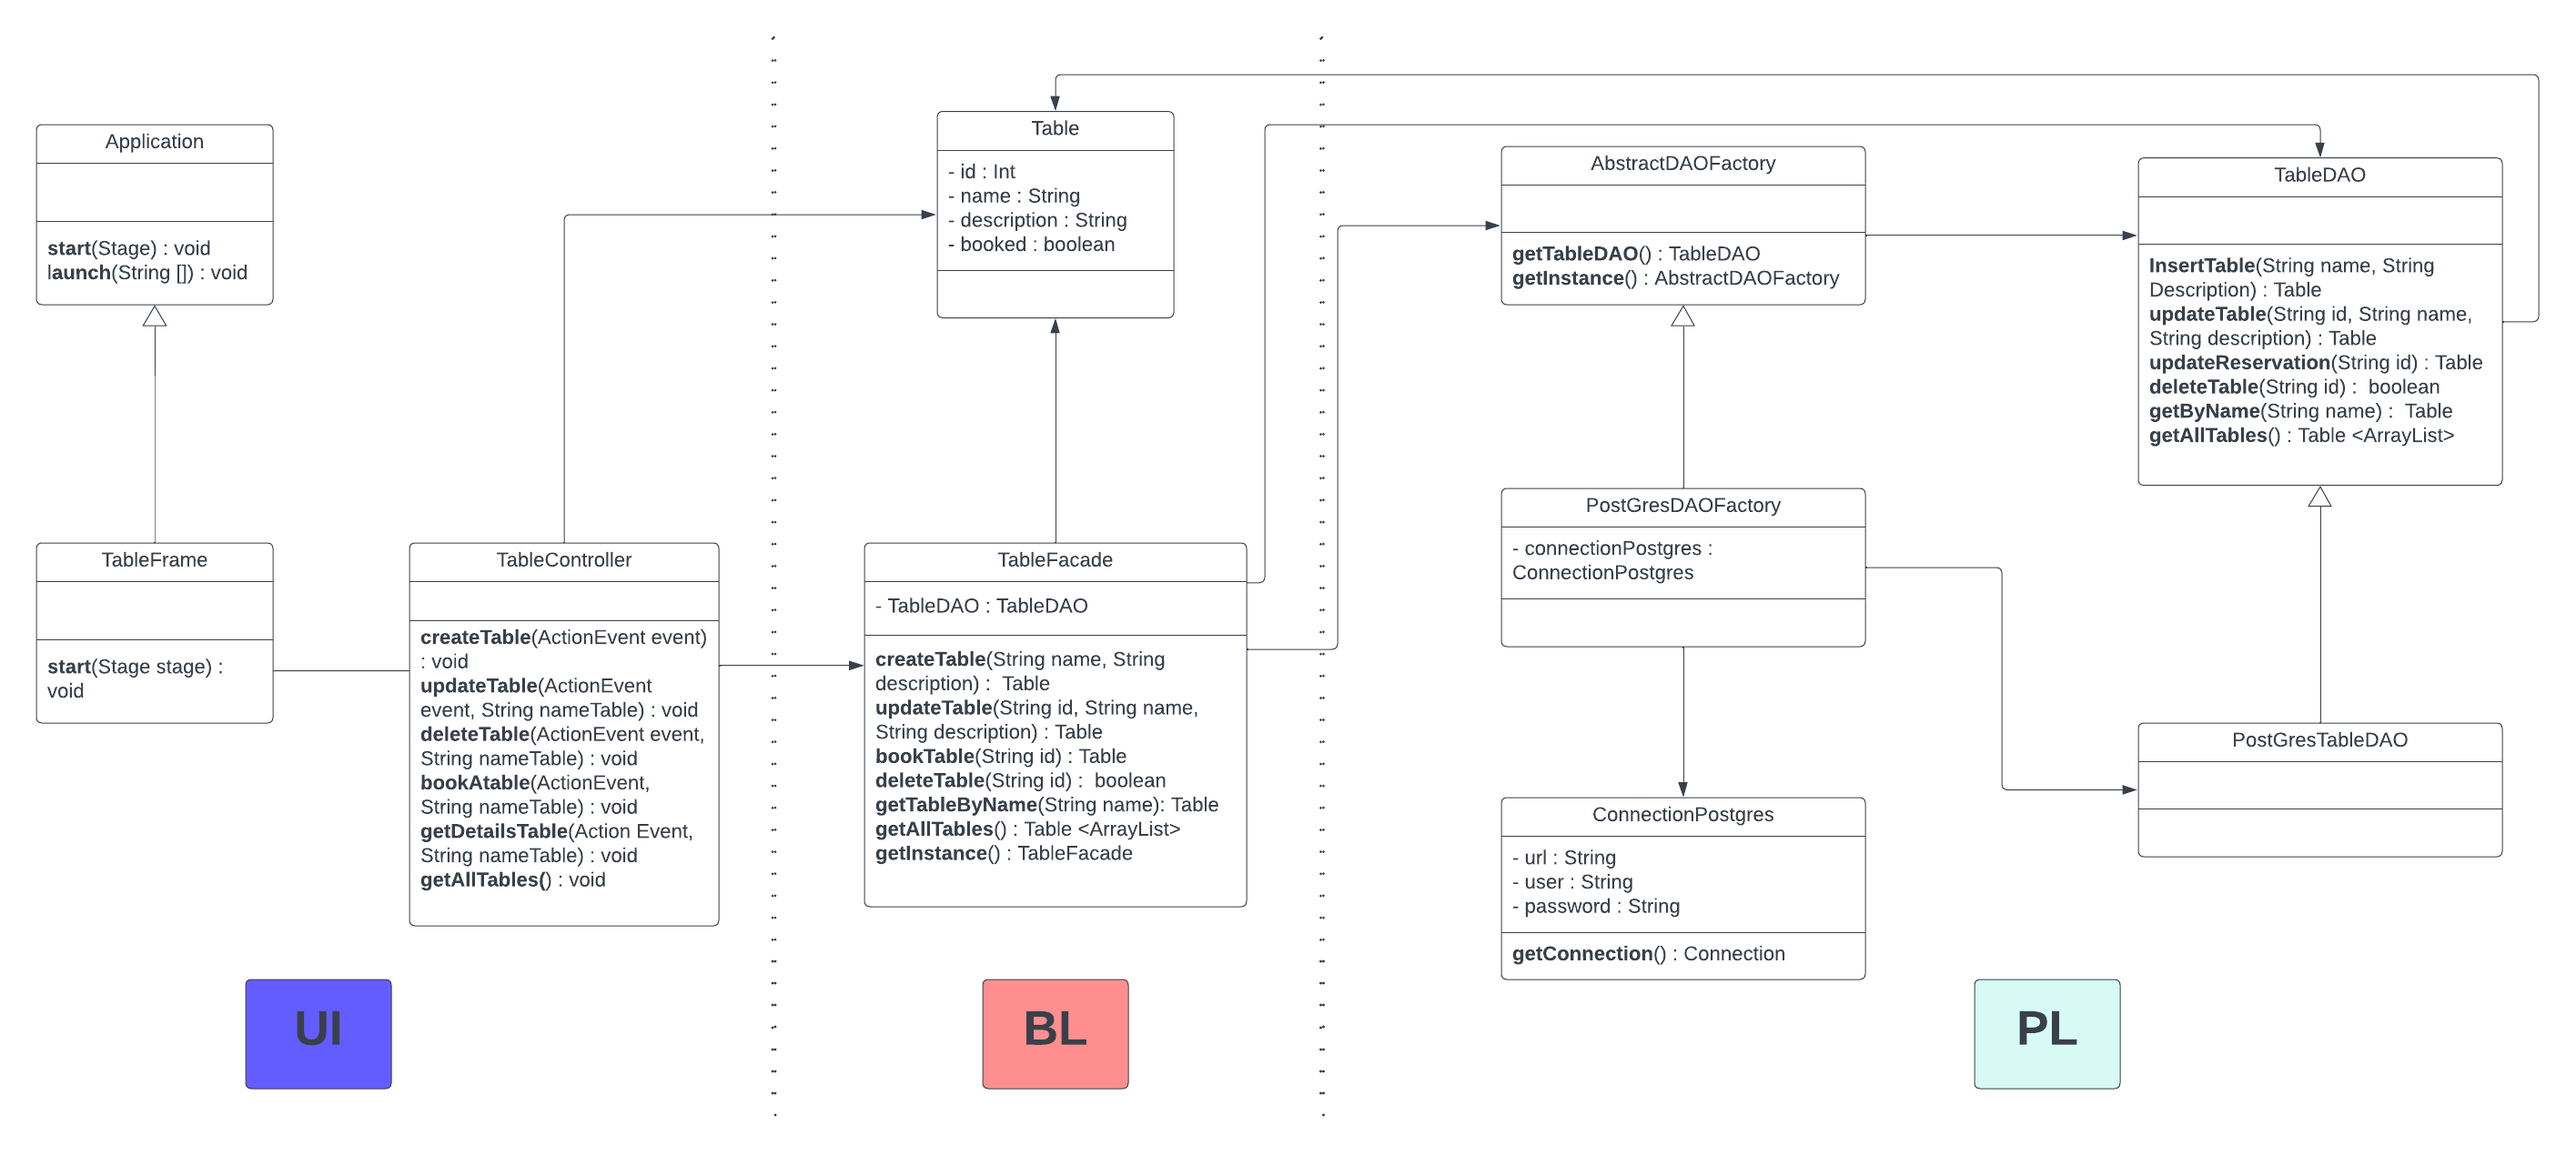
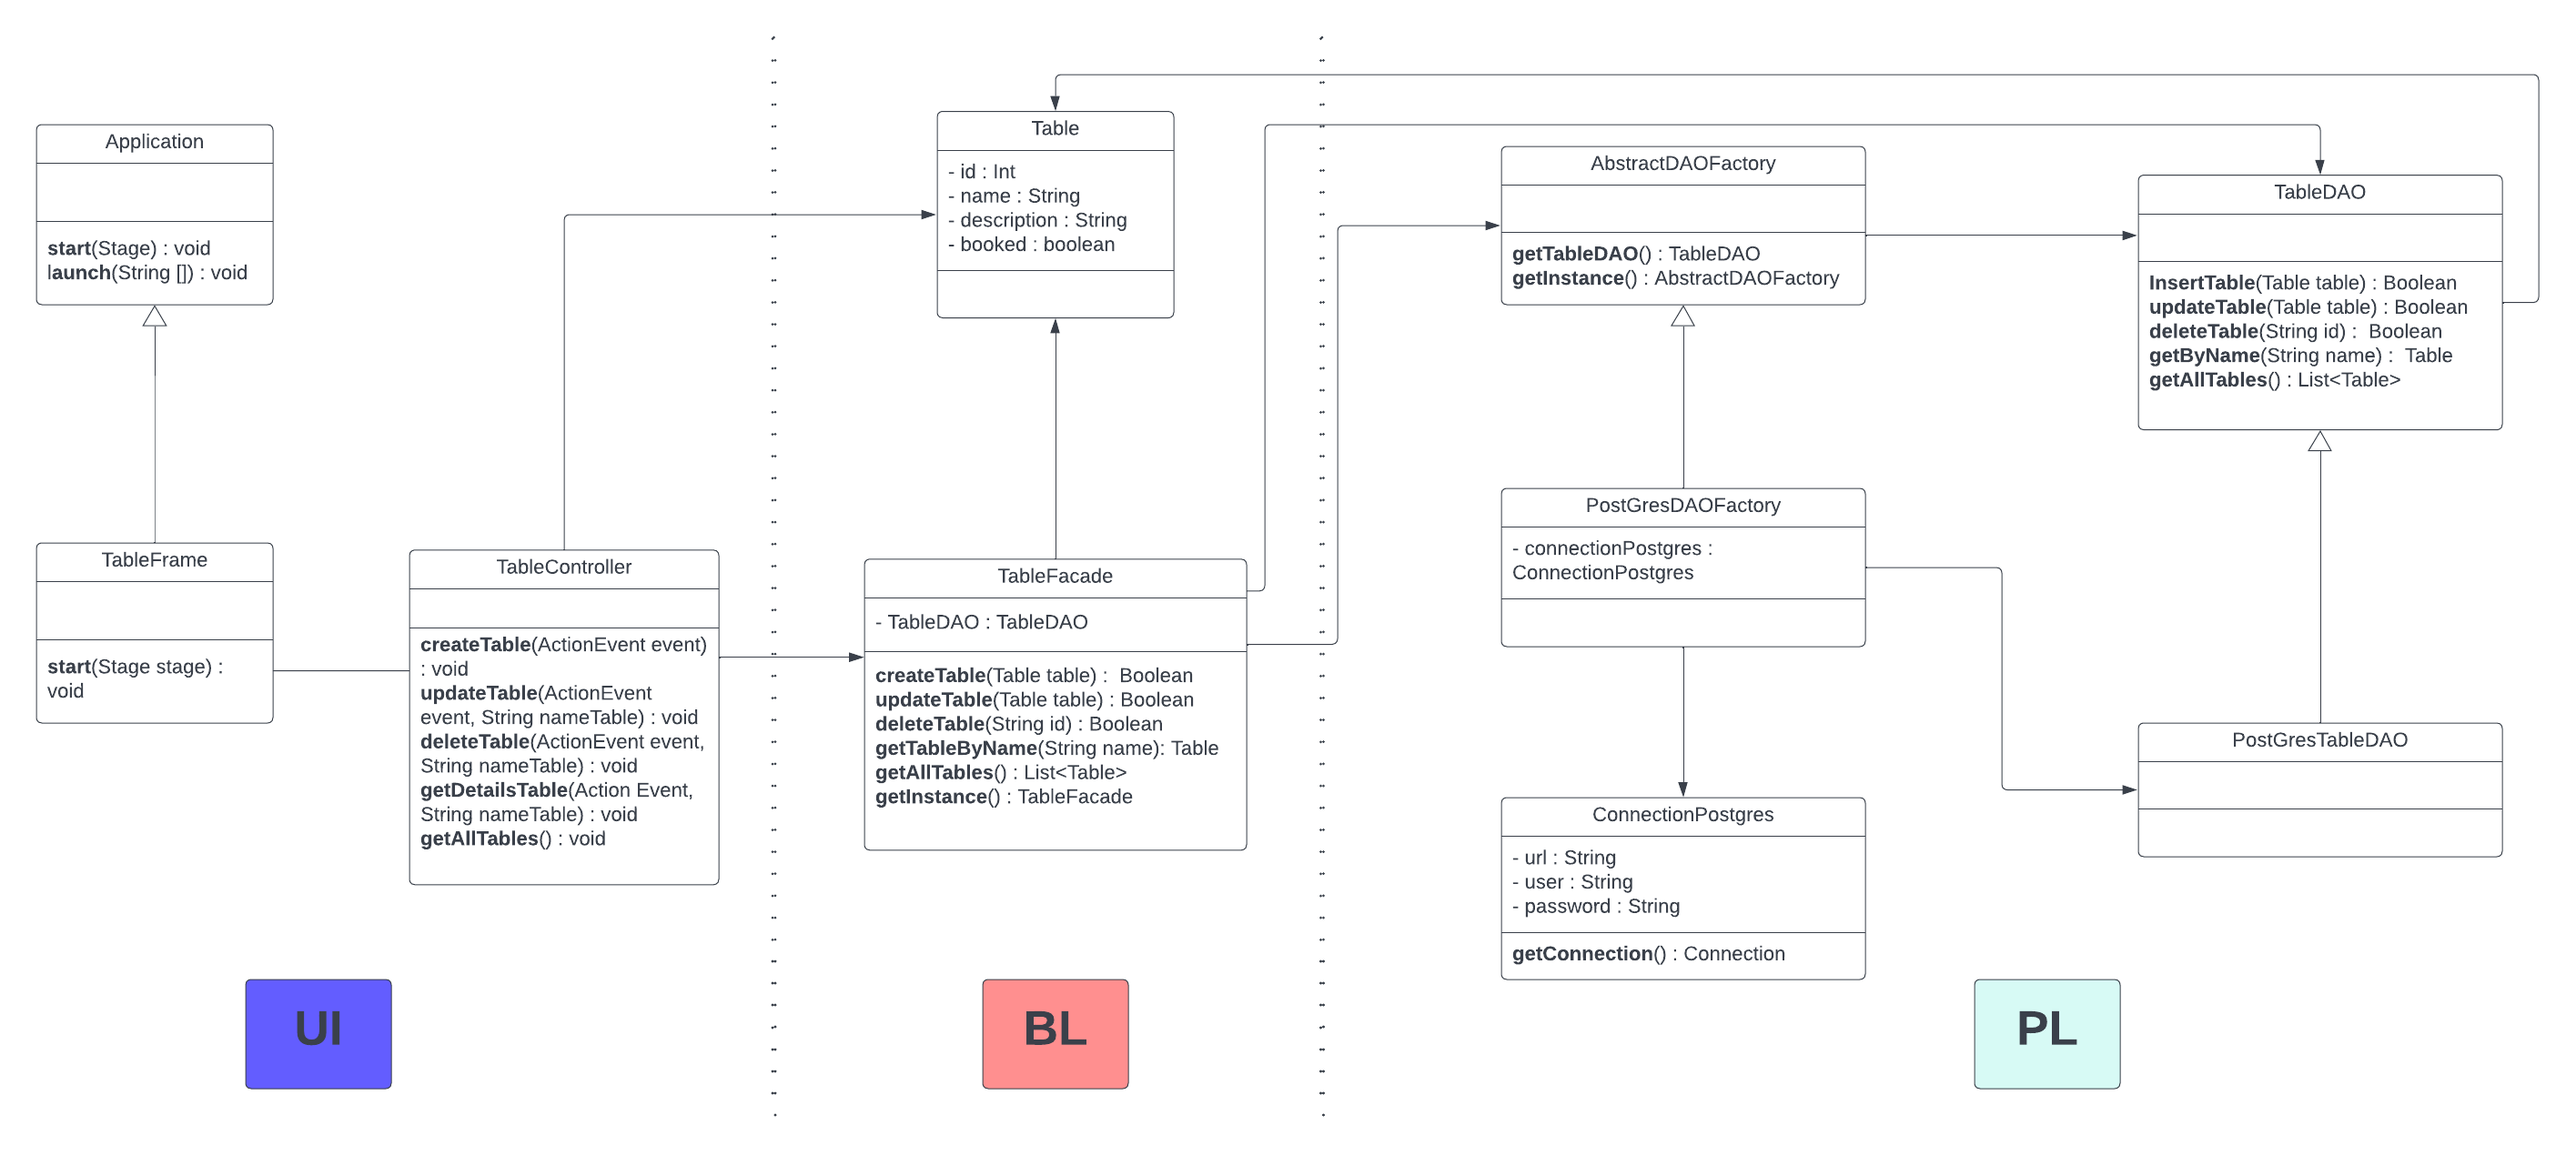
Diagramm and Code that works Updated

diff --git a/src/main/java/project/presentation/controller/TableController.java b/src/main/java/project/presentation/controller/TableController.java
@@ -1,0 +1,63 @@
+package project.presentation.controller;
+
+import javafx.event.ActionEvent;
+import javafx.fxml.FXML;
+import javafx.scene.control.*;
+import javafx.stage.Window;
+import project.business.facade.TableFacade;
+
+import static project.presentation.controller.LoginController.infoBox;
+import static project.presentation.controller.LoginController.showAlert;
+
+
+public class TableController {
+
+    @FXML
+    public void initialize() {
+        System.out.println("TableController initialized!");
+    }
+
+    @FXML
+    private Button submitButton;
+    @FXML
+    private TextField tableName;
+    @FXML
+    private TextArea tableDescription;
+
+    @FXML
+    public void CreateTable(ActionEvent event) {
+        System.out.println("Valider La création de la table button pressed!");
+
+        // Get the window of the submit button
+        Window owner = submitButton.getScene().getWindow();
+        // if the email field is empty show an alert
+        if (tableName.getText().isEmpty()) {
+            showAlert(Alert.AlertType.ERROR, owner, "Form Error!",
+                    "Please enter the name of the table");
+            return;
+        }
+
+        // if the password field is empty show an alert
+        if (tableDescription.getText().isEmpty()) {
+            showAlert(Alert.AlertType.ERROR, owner, "Form Error!",
+                    "Please enter a description");
+            return;
+        }
+
+        // Get the email and the password fields from the frame
+        String name = tableName.getText();
+        String description = tableDescription.getText();
+
+        // Call the facade to get
+        TableFacade tableFacade = TableFacade.getInstance();
+
+        // try to login the user
+        Boolean created = tableFacade.createTable(name, description);
+
+        if (created) {
+            infoBox("Table created Successfully!", null, "Success");
+        } else {
+            infoBox("Creation Failed!", null, "Failed");
+        }
+    }
+}

diff --git a/src/main/java/project/persistence/product/PostGresTableDAO.java b/src/main/java/project/persistence/product/PostGresTableDAO.java
@@ -1,0 +1,41 @@
+package project.persistence.product;
+
+import project.persistence.factory.PostGresDAOFactory;
+
+import java.sql.Connection;
+import java.sql.PreparedStatement;
+import java.sql.SQLException;
+
+public class PostGresTableDAO extends TableDAO {
+
+    @Override
+    public Boolean insertTable(String name, String description) {
+        Boolean result = false;
+
+        // Get the connection to the database
+        Connection connection = PostGresDAOFactory.connectionPostgres.getConnection();
+
+        // If the connection works
+        if (connection != null) {
+            // Create the query
+            try {
+                String query = "INSERT INTO \"public\".\"Table\" (\"name\", \"description\") VALUES (?, ?);";
+                PreparedStatement preparedStatement = connection.prepareStatement(query);
+                preparedStatement.setString(1, name);
+                preparedStatement.setString(2, description);
+                preparedStatement.executeUpdate();
+                preparedStatement.close();
+                result = true;
+            } catch (SQLException e) {
+                throw new RuntimeException(e);
+            } finally {
+                try {
+                    connection.close();
+                } catch (SQLException e) {
+                    throw new RuntimeException(e);
+                }
+            }
+        }
+        return result;
+    }
+}

diff --git a/src/main/java/project/business/facade/TableFacade.java b/src/main/java/project/business/facade/TableFacade.java
@@ -1,0 +1,44 @@
+package project.business.facade;
+
+import project.persistence.factory.AbstractDAOFactory;
+import project.persistence.factory.PostGresDAOFactory;
+import project.persistence.product.TableDAO;
+import project.persistence.product.UserDAO;
+import project.utilities.PasswordCrypt;
+
+
+public class TableFacade {
+
+
+    // Instance variables
+    private TableDAO tableDAO;
+
+    /**
+     * Constructor of the class UserFacade
+     */
+    private TableFacade() {
+        // Get the DAO
+        AbstractDAOFactory factory = PostGresDAOFactory.getInstance();
+        // Get the UserDAO
+        this.tableDAO = factory.getTableDAO();
+    }
+
+
+    public Boolean createTable(String name, String description) {
+        return this.tableDAO.insertTable(name, description);
+    }
+
+
+    public static TableFacade getInstance() {
+        return TableFacade.FacadeHolder.INSTANCE;
+    }
+
+
+    private static class FacadeHolder {
+        // Instance of the class UserFacade
+        static final TableFacade INSTANCE = new TableFacade();
+    }
+
+
+
+}

diff --git a/src/main/java/project/presentation/frame/Table.java b/src/main/java/project/presentation/frame/Table.java
@@ -1,0 +1,33 @@
+package project.presentation.frame;
+import javafx.application.Application;
+import javafx.fxml.FXMLLoader;
+import javafx.scene.Parent;
+import javafx.scene.Scene;
+import javafx.stage.Stage;
+
+public class Table extends Application{
+
+        @Override
+        public void start(Stage stage) throws Exception {
+            // Load the fxml file and create a new stage for the root
+            Parent root = FXMLLoader.load(getClass().getResource("TableFrame.fxml"));
+
+            // Create the scene with the root and set the title of the stage
+            stage.setTitle("Table");
+            stage.setScene(new Scene(root, 700, 500));
+
+            // Show the GUI
+            stage.show();
+        }
+
+        /**
+        * This method is used to launch the application
+        * @param args the arguments of the application from the command line
+        */
+        public static void main(String[] args) {
+
+            // Launch the application
+            Application.launch(args);
+        }
+
+}

diff --git a/src/main/java/project/business/models/Table.java b/src/main/java/project/business/models/Table.java
@@ -1,0 +1,37 @@
+package project.business.models;
+
+public class Table {
+    private Integer id;
+    private String name;
+    private String description;
+
+    public Table(Integer id, String name, String description) {
+        this.id = id;
+        this.name = name;
+        this.description = description;
+    }
+
+    public Integer getId() {
+        return id;
+    }
+
+    public void setId(Integer id) {
+        this.id = id;
+    }
+
+    public String getName() {
+        return name;
+    }
+
+    public void setName(String name) {
+        this.name = name;
+    }
+
+    public String getDescription() {
+        return description;
+    }
+
+    public void setDescription(String description) {
+        this.description = description;
+    }
+}

diff --git a/src/main/java/project/persistence/factory/PostGresDAOFactory.java b/src/main/java/project/persistence/factory/PostGresDAOFactory.java
@@ -4,6 +4,7 @@ package project.persistence.factory;
 
 import project.persistence.product.PostGresUserDAO;
 import project.persistence.product.UserDAO;
+import project.persistence.product.*;
 import project.utilities.ConnectionPostgres;
 
 /**
@@ -35,6 +36,11 @@ public class PostGresDAOFactory extends AbstractDAOFactory {
     @Override
     public UserDAO getUserDAO() {
         return new PostGresUserDAO();
+    }
+
+    @Override
+    public TableDAO getTableDAO() {
+        return new PostGresTableDAO();
     }
 
 }

diff --git a/src/main/java/project/presentation/controller/LoginController.java b/src/main/java/project/presentation/controller/LoginController.java
@@ -94,7 +94,7 @@ public class LoginController {
      * @param title the title of the alert
      * @param message the message of the alert
      */
-    private static void showAlert(Alert.AlertType alertType, Window owner, String title, String message) {
+    static void showAlert(Alert.AlertType alertType, Window owner, String title, String message) {
         // Create the alert
         Alert alert = new Alert(alertType);
 

diff --git a/src/main/java/project/persistence/factory/AbstractDAOFactory.java b/src/main/java/project/persistence/factory/AbstractDAOFactory.java
@@ -1,5 +1,6 @@
 package project.persistence.factory;
 
+import project.persistence.product.TableDAO;
 import project.persistence.product.UserDAO;
 
 
@@ -18,6 +19,8 @@ public abstract class AbstractDAOFactory {
      * @return the UserDAO
      */
     public abstract UserDAO getUserDAO();
+
+    public abstract TableDAO getTableDAO();
 
     /**
      * This method is used to get the instance of the class

diff --git a/src/main/java/project/persistence/product/TableDAO.java b/src/main/java/project/persistence/product/TableDAO.java
@@ -1,0 +1,7 @@
+package project.persistence.product;
+
+public abstract class TableDAO {
+
+    public abstract Boolean insertTable(String name, String description);
+
+}
